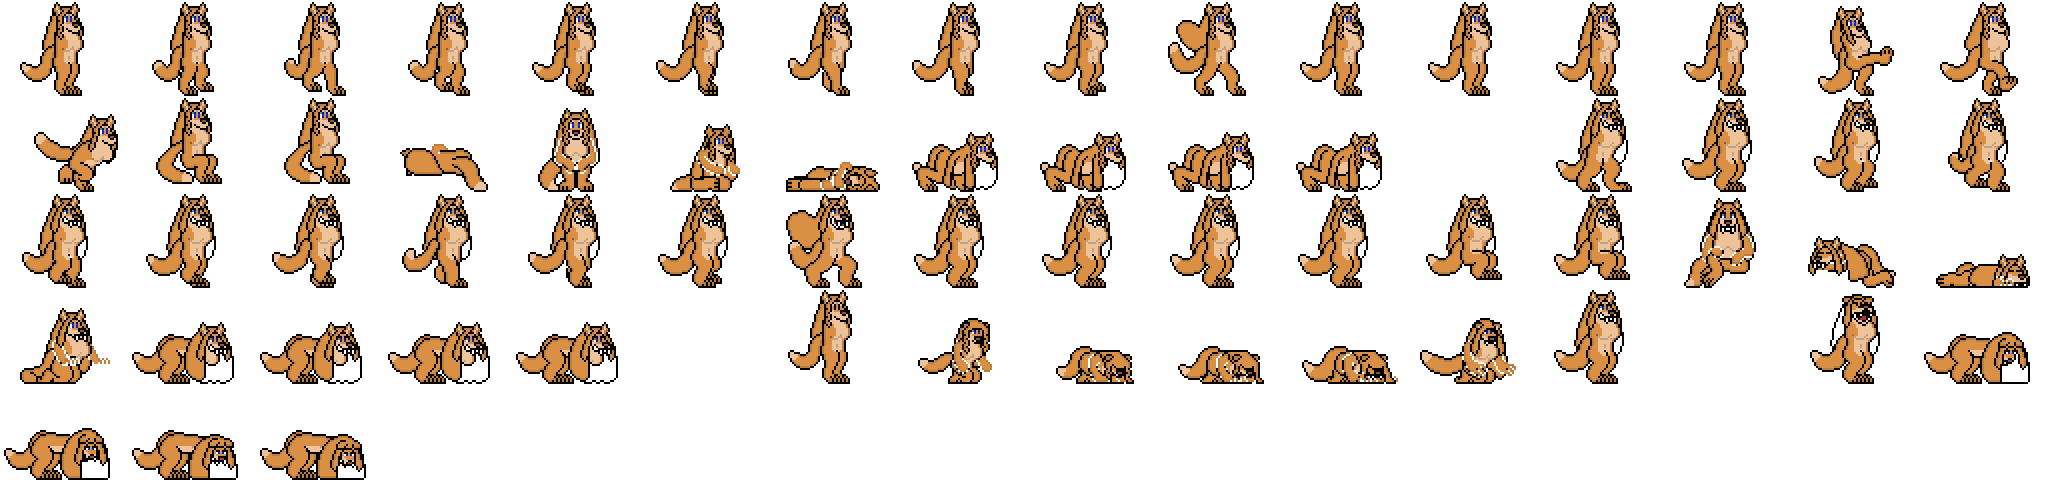
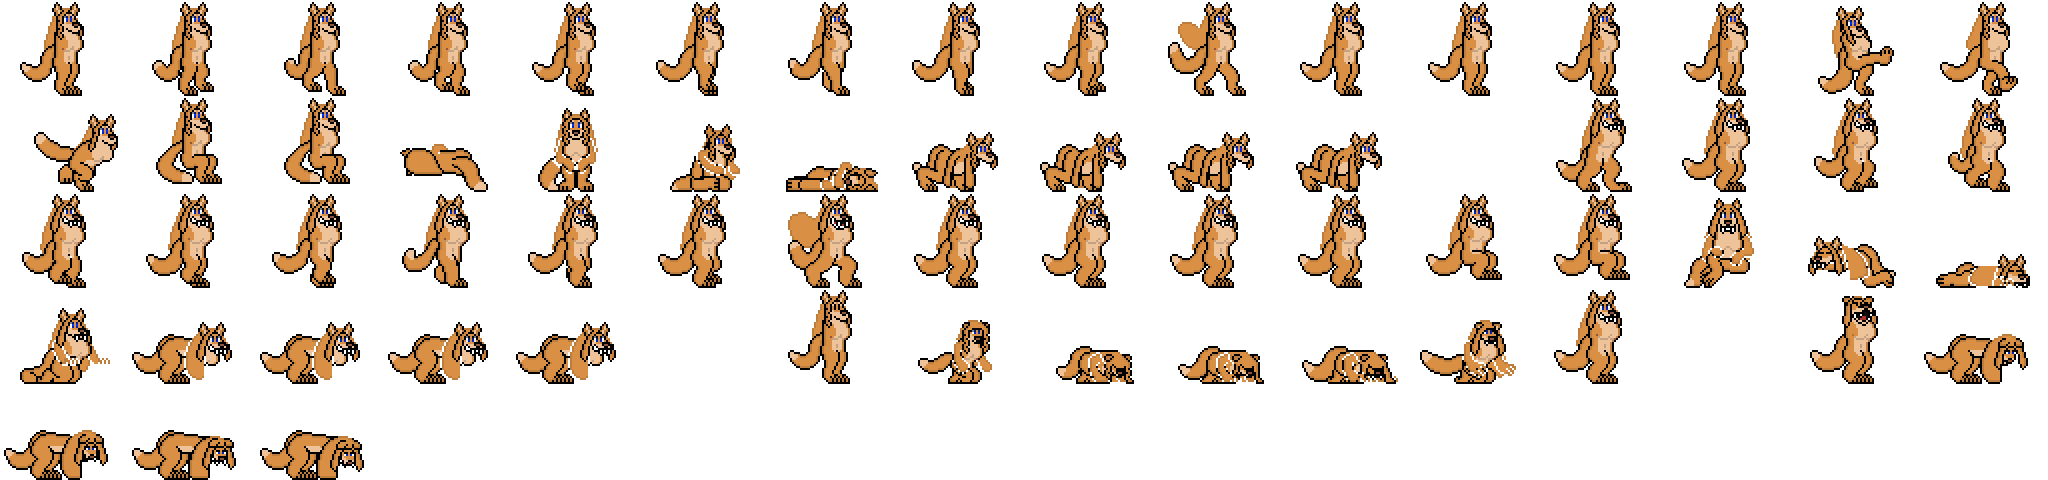
Added some comments to companions regarding the current progress in the world. Tweaked Castella's werewolf eye sprites.

diff --git a/Companions/Blue/BlueDialogues.cs b/Companions/Blue/BlueDialogues.cs
@@ -134,24 +134,24 @@ namespace terraguardians.Companions
                 else
                     Mes.Add("*Hey, [nickname], may I borrow [gn:3] for a few minutes? I want to play a game with [gn:2] and would love having his company.*");
             }
-            if (NPC.AnyNPCs(Terraria.ID.NPCID.WitchDoctor))
+            if (NPC.AnyNPCs(NPCID.WitchDoctor))
                 Mes.Add("(She seems to be playing with flasks of poison.)");
-            if (NPC.AnyNPCs(Terraria.ID.NPCID.Stylist))
-                Mes.Add("*Check out my hair. I visitted [nn:"+Terraria.ID.NPCID.Stylist+"] and she did wonders to it.*"); //"*[name] wants you to check her hair.*");
-            if (NPC.AnyNPCs(Terraria.ID.NPCID.BestiaryGirl))
+            if (NPC.AnyNPCs(NPCID.Stylist))
+                Mes.Add("*Check out my hair. I visitted [nn:"+NPCID.Stylist+"] and she did wonders to it.*"); //"*[name] wants you to check her hair.*");
+            if (NPC.AnyNPCs(NPCID.BestiaryGirl))
             {
                 if(Main.moonPhase == 0)
                 {
-                    Mes.Add("*I don't recommend talking with [nn:"+Terraria.ID.NPCID.BestiaryGirl+"] right now, she seems oddly aggressive, but I still like her hair..*");
+                    Mes.Add("*I don't recommend talking with [nn:"+NPCID.BestiaryGirl+"] right now, she seems oddly aggressive, but I still like her hair..*");
                 }
-                Mes.Add("*I actually like [nn:" + Terraria.ID.NPCID.BestiaryGirl + "]'s hair. I wonder if I could do something like that to mine.*");
+                Mes.Add("*I actually like [nn:" + NPCID.BestiaryGirl + "]'s hair. I wonder if I could do something like that to mine.*");
                 if(MainMod.GetLocalPlayer.wolfAcc)
                 {
-                    Mes.Add("*[nn:" + Terraria.ID.NPCID.BestiaryGirl + "] seems to shift forms during some nights. Is she using some kind of charm, like you do?*");
+                    Mes.Add("*[nn:" + NPCID.BestiaryGirl + "] seems to shift forms during some nights. Is she using some kind of charm, like you do?*");
                 }
                 else
                 {
-                    Mes.Add("*[nn:" + Terraria.ID.NPCID.BestiaryGirl + "] seems to shift forms during some nights. She even looks like someone else.*");
+                    Mes.Add("*[nn:" + NPCID.BestiaryGirl + "] seems to shift forms during some nights. She even looks like someone else.*");
                 }
             }
             if (CanTalkAboutCompanion(0))
@@ -247,6 +247,43 @@ namespace terraguardians.Companions
             if (BlueBase.HasBunnyInInventory(guardian))
             {
                 Mes.Add("*How did you know I love bunnies? I really love this gift. Thank you.*"); //"*[name] asks how did you know, and tells you that she loved the pet you gave her.*");
+            }
+            if (NPC.downedBoss1)
+            {
+                Mes.Add("*I feel a lot better since the big eye was slices to pieces. But why do I feel like that's only the beginning?*");
+            }
+            else if (!Main.dayTime)
+            {
+                Mes.Add("*I feel uneasy... Do you also feel like you're being watched?*");
+            }
+            if (NPC.downedBoss3)
+            {
+                Mes.Add("*With that Old Man gone, I guess it's safe now to see what's inside that dungeon. Right?*");
+            }
+            if (Main.hardMode)
+            {
+                Mes.Add("*Be careful when travelling out there: The world is not as we've once seen it.*");
+                Mes.Add("*Try not to be fooled by the really bright place that popped up in this world. The things there also want us dead, so nothing changed.*");
+            }
+            if (NPC.downedMechBossAny)
+            {
+                Mes.Add("*I have no idea why those familiar mechanical creatures showed up, but it seems like we made someone angry.*");
+            }
+            if (NPC.downedPlantBoss)
+            {
+                Mes.Add("*So... A angry plant creature showed up after you destroyed a Jungle bulb? I'm glad I didn't tried to uproot one earlier then..*");
+            }
+            if (NPC.LunarApocalypseIsUp)
+            {
+                Mes.Add("*[nickname], we have a problem! Some pillars appeared and they're spawning dangerous creatures on this world. We have to do something.*");
+            }
+            if (NPC.downedMoonlord)
+            {
+                Mes.Add("*Seems like you saved this world from a unknown threat, [nickname]. Congratulations.*");
+            }
+            if (NPC.downedPirates)
+            {
+                Mes.Add("*I'm really glad we took care of those pirates. If you knew the kind of things they were shouting at me...*");
             }
             if (guardian.IsUsingToilet)
             {

diff --git a/Companions/Castella/CastellaDialogues.cs b/Companions/Castella/CastellaDialogues.cs
@@ -138,7 +138,36 @@ namespace terraguardians.Companions.Castella
                 }
                 if (CanTalkAboutCompanion(CompanionDB.Liebre))
                 {
-                    M("*You feel uncomfortable with [gn:" + CompanionDB.Liebre + "] presence? I wondered so.*", "*It is quite creepy to notice [gn:"+CompanionDB.Liebre+"] watching me, when I'm nibbling my prey. He must have been disappointed everytime, since I don't kill them.*");
+                    M("*You feel uncomfortable with [gn:" + CompanionDB.Liebre + "] presence? I wondered so.*", "*It is quite creepy to notice [gn:"+CompanionDB.Liebre+"] watching me when I'm nibbling my prey. He must have been disappointed everytime I don't kill them.*");
+                }
+                if (NPC.downedBoss3)
+                {
+                    M("*Hm... Would you mind if I explore the dungeon in your world..?*", "*I'm really curious about the Dungeon. I should go there some time.*");
+                }
+                if (NPC.downedGoblins)
+                {
+                    M("*I'm glad that Goblin Army issue was taken care of... From here on it will get worser, right..?*", "*Those Goblins were quite a nice game of catch for me. I only hated that they were too easy to take care of.*");
+                }
+                if (Main.hardMode)
+                {
+                    M("*I felt that, [nickname]. Did you unleashed something onto this world?*", "*Yes! Challenge! Now that's about it! This world was too boring before.*");
+                    M("*I hope you're ready for the new challenges, [nickname].*", "*What is it, [nickname]? Want to call me to rip some monsters?*");
+                }
+                if (NPC.downedMechBossAny)
+                {
+                    M("*Who built those mechanical creatures that attacked us? And why they look like creatures you faced before?*", "*I really don't like those mechanical creatures. Biting them hurts.*");
+                }
+                if (NPC.downedPlantBoss)
+                {
+                    M("*Something changed at the Dungeon, I felt it. Maybe we should check it out.*", "*Did you feel that? Something at the Dungeon. We should check out.*");
+                }
+                if (NPC.LunarApocalypseIsUp)
+                {
+                    M("*There- There are pillars! All over the world! Invoking creatures!*","*Lets go, [nickname]! There are pillars spawned in the world, and they wont be destroyed by themselves!*");
+                }
+                if (NPC.downedMoonlord)
+                {
+                    M("*It seems like you managed to bring peace here... Thank you very much...*", "*There are no more dangers popping up here, so I can focus on catching people again.*");
                 }
             }
             return Mes[Main.rand.Next(Mes.Count)];

diff --git a/Companions/Bree/BreeDialogue.cs b/Companions/Bree/BreeDialogue.cs
@@ -262,6 +262,50 @@ namespace terraguardians.Companions
                     Mes.Add("I hope you aren't trying to get \'intimate\' with my husband. Remember that we are still married.");
                 Mes.Add("I will never understand why [gn:"+CompanionDB.Sardine+"] shares his room with you, but not me. I didn't make him sleep on the sofa lately.");
             }
+            if (NPC.downedSlimeKing)
+            {
+                if (HasSardineMet)
+                {
+                    Mes.Add("I'm actually happy that you managed to save my husband from the King Slime.");
+                    Mes.Add("I wonder how my husband got stuck inside the King Slime.");
+                }
+            }
+            if (NPC.downedQueenBee)
+            {
+                Mes.Add("So, you've been attacked by a bee after killing its spawn? I can quite understand, I wouldn't simply watch if someone did the same to my cub.");
+                Mes.Add("I can't get why there's giant honeycombs in a place filled with hornets.");
+            }
+            if (Main.hardMode)
+            {
+                Mes.Add("What happened? I went underground earlier and more dangerous creatures begun showing up.");
+            }
+            if (NPC.downedMechBossAny)
+            {
+                Mes.Add("[nickname], have you been building robots lately? I had to ask since our last visitor.");
+                if (NPC.AnyNPCs(NPCID.Mechanic))
+                    Mes.Add("I asked [nn:"+NPCID.Mechanic+"] about the robot that attacked us earlier, and she said that she worked on them, against her own will. She said there was even one of a brain that she gladly never finished.");
+            }
+            if (NPC.downedQueenSlime)
+            {
+                if (HasSardineMet)
+                {
+                    Mes.Add("I'm glad to hear that my husband didn't managed to get stuck inside the Queen Slime.");
+                }
+                Mes.Add("You seem to love getting yourself into trouble, [nickname]. You even managed to attract the attention of a giant purple slime.");
+            }
+            if (NPC.downedPlantBoss)
+            {
+                Mes.Add("Why a plant creature that you 'accidentally' caused to appear, gave a key to a temple in the Jungle? What could be locked in there?");
+            }
+            if (NPC.LunarApocalypseIsUp)
+            {
+                Mes.Add("If you don't get rid of those towers, I'm leaving your world until you get it fixed.");
+                Mes.Add("Oh no, what have you done now?");
+            }
+            if (NPC.downedMoonlord)
+            {
+                Mes.Add("I think now we can enjoy some peace. Or at least until you cause something else to happen.");
+            }
             if (Main.bloodMoon)
             {
                 Mes.Clear();

diff --git a/Companions/Brutus/BrutusDialogue.cs b/Companions/Brutus/BrutusDialogue.cs
@@ -266,6 +266,42 @@ namespace terraguardians.Companions
                 Mes.Add("*If anything tries to attack you while sleeping, will never expect me to be here. You will be safe.*");
                 Mes.Add("*So, you need my protection during the night? I can help you with that.*");
             }
+            if (NPC.downedBoss3)
+            {
+                Mes.Add("*What kind of things would be hidden inside that dungeon? Must be something serious to need someone gatekeeping it.*");
+            }
+            if (NPC.downedQueenBee)
+            {
+                Mes.Add("*I think I met someone once who would like to meet the Queen Bee. They once said were feeling lonely.*");
+            }
+            if (Main.hardMode)
+            {
+                Mes.Add("*[nickname], what happened? The world is now more dangerous than before. Please watch out on your travels. Take me with you if you need.*");
+                Mes.Add("*It's really odd how the world shifted. I felt something strange, and the Boom! New monsters begun showing up everywhere.*");
+            }
+            if (NPC.downedMechBossAny)
+            {
+                Mes.Add("*Is there any particular reason why someone would send mechanical creatures to kill you?*");
+                Mes.Add("*I think those mechanical creatures are literally like assassins sent after you, [nickname]. Don't worry, I'll protect you from them.*");
+            }
+            if (NPC.downedGoblins)
+            {
+                Mes.Add("*Those Goblins were no match for a royal guard such as me. Beside I'm no longer a royal guard, I'm still as tough as I was then.*");
+            }
+            if (NPC.downedFishron)
+            {
+                Mes.Add("*Ever since you killed that dragon fish thing, I had managed to eat well for a night.*");
+            }
+            if (NPC.LunarApocalypseIsUp)
+            {
+                Mes.Add("*Watch out, [nickname]! Towers appeared through the world surface, and they're making dangerous creatures show up!*");
+                Mes.Add("*We need to take out those towers to ensure the safety of the citizens, [nickname].*");
+            }
+            if (NPC.downedMoonlord)
+            {
+                Mes.Add("*Well, now that the world is saved, I guess we can enjoy peace now.*");
+                Mes.Add("*Beside the world is safe now, our contract is still up. Remember, [nickname]: My contract ends when your life ends.*");
+            }
             if (PlayerMod.IsHauntedByFluffles(MainMod.GetLocalPlayer) && Main.rand.NextDouble() < 0.75)
             {
                 Mes.Clear();

diff --git a/Companions/Alex/AlexDialogues.cs b/Companions/Alex/AlexDialogues.cs
@@ -143,6 +143,25 @@ namespace terraguardians.Companions
                 {
                     GetTranslationKeyRange("normal", 51, 52, Mes);
                 }
+                if (NPC.downedBoss1)
+                {
+                    Mes.Add("normal57");
+                }
+                else
+                {
+                    if (!Main.dayTime)
+                    {
+                        Mes.Add("normal58");
+                    }
+                }
+                if (NPC.downedBoss3)
+                {
+                    Mes.Add("normal59");
+                }
+                if (Main.hardMode)
+                {
+                    GetTranslationKeyRange("normal", 60, 61, Mes);
+                }
             }
             return GetTranslation(Mes[Main.rand.Next(Mes.Count)]).Replace(IreneKey, AlexRecruitmentScript.AlexOldPartner);
         }

diff --git a/Companions/Alexander/AlexanderDialogue.cs b/Companions/Alexander/AlexanderDialogue.cs
@@ -113,6 +113,26 @@ namespace terraguardians.Companions
                 {
                     GetTranslationKeyRange("normal", 37, 38, Mes);
                 }
+                if (Main.hardMode)
+                {
+                    Mes.Add("normal40");
+                }
+                if (NPC.downedMechBossAny)
+                {
+                    Mes.Add("normal43");
+                }
+                if (NPC.downedGolemBoss)
+                {
+                    Mes.Add("normal42");
+                }
+                if (NPC.LunarApocalypseIsUp)
+                {
+                    Mes.Add("normal41");
+                }
+                if (NPC.downedMoonlord)
+                {
+                    Mes.Add("normal44");
+                }
             }
             return GetTranslation(Mes[Main.rand.Next(Mes.Count)]);
         }
